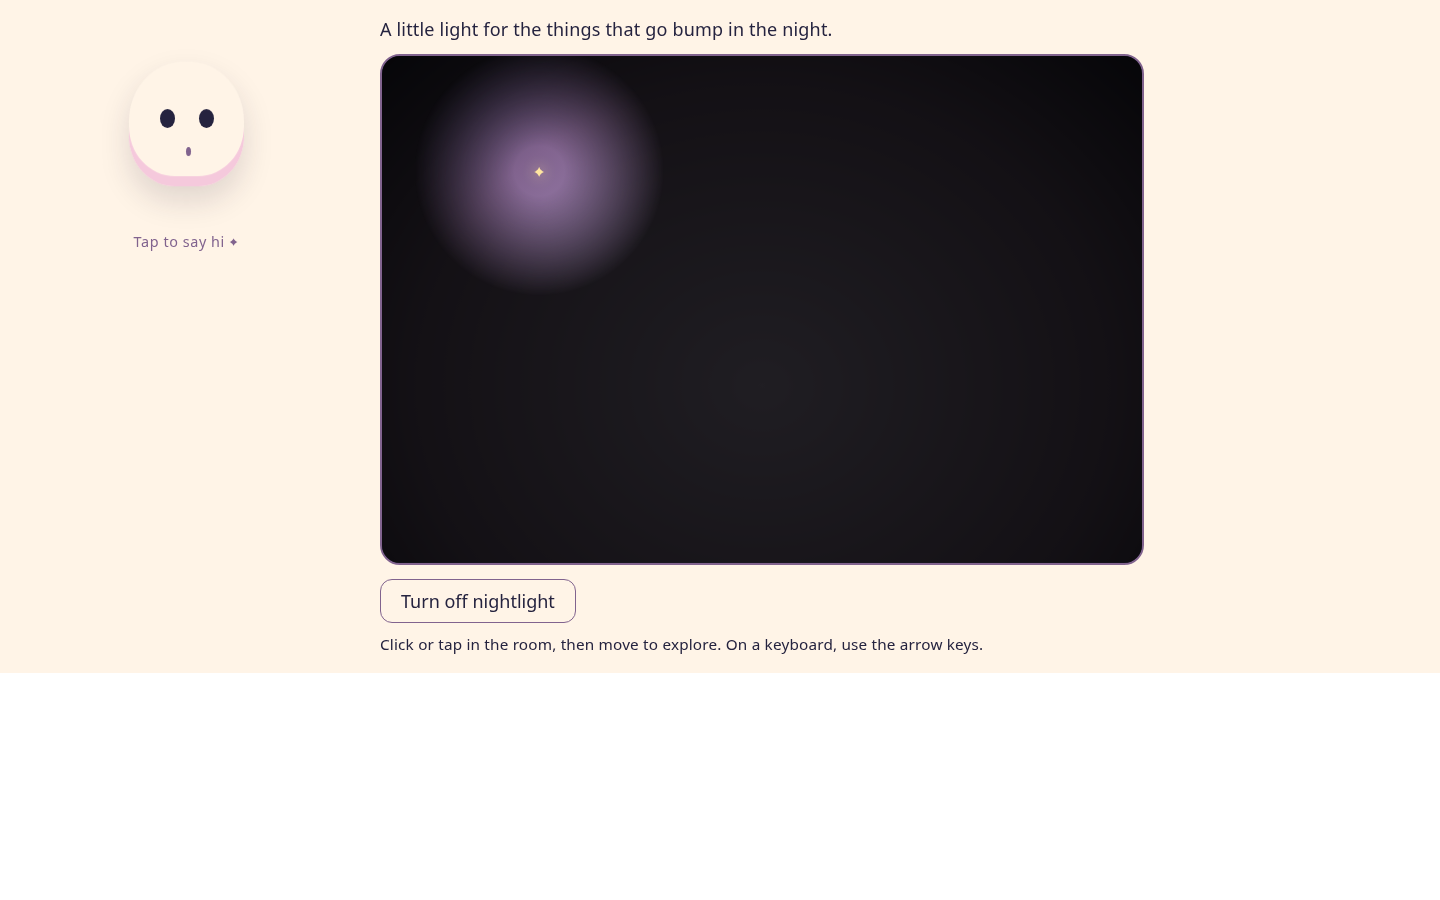
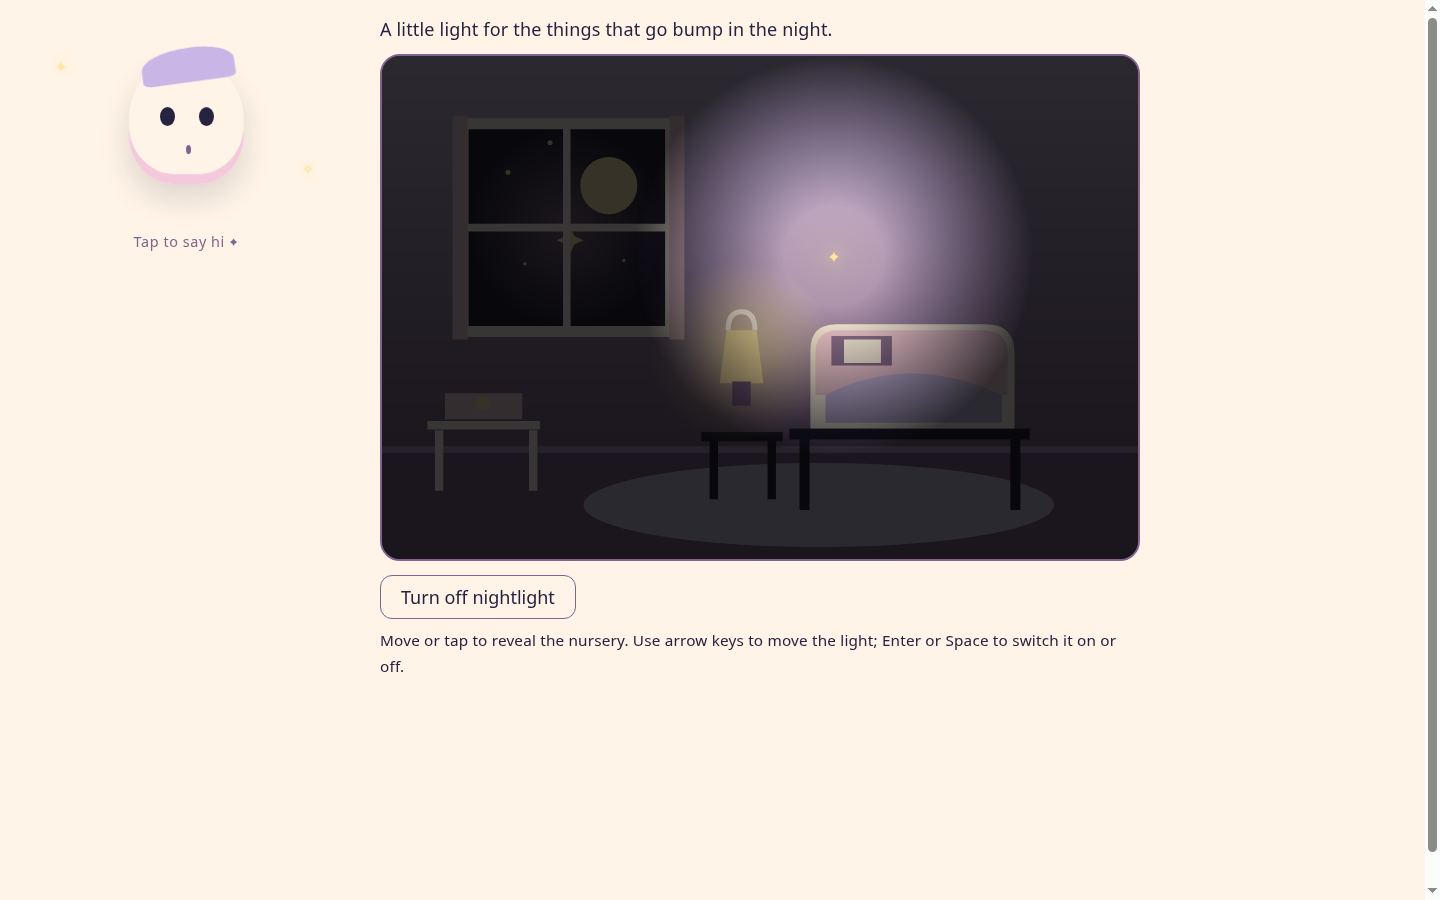
feat: refine Stage 1 interactions and add nursery fallback

diff --git a/src/components/interactive/NightlightLab.tsx b/src/components/interactive/NightlightLab.tsx
@@ -1,4 +1,4 @@
-import { useRef, useState, type CSSProperties, type KeyboardEvent, type PointerEvent } from 'react'
+import { useEffect, useId, useRef, useState, type KeyboardEvent, type PointerEvent } from 'react'
 import './NightlightLab.css'
 
 export interface NightlightLabProps {
@@ -8,17 +8,28 @@ export interface NightlightLabProps {
 
 export function NightlightLab({ muted, onPlaySound }: NightlightLabProps) {
   const scene = useRef<HTMLDivElement>(null)
+  const point = useRef({ x: 50, y: 50 })
+  const frame = useRef(0)
+  const hintId = useId()
   const [lit, setLit] = useState(false)
-  const [point, setPoint] = useState({ x: 50, y: 50 })
+
+  useEffect(() => () => cancelAnimationFrame(frame.current), [])
+
+  function updateLight(x: number, y: number) {
+    point.current = { x: Math.max(0, Math.min(100, x)), y: Math.max(0, Math.min(100, y)) }
+    if (frame.current) return
+    frame.current = requestAnimationFrame(() => {
+      scene.current?.style.setProperty('--light-x', `${point.current.x}%`)
+      scene.current?.style.setProperty('--light-y', `${point.current.y}%`)
+      frame.current = 0
+    })
+  }
 
   function move(event: PointerEvent<HTMLDivElement>) {
     if (!scene.current) return
     const rect = scene.current.getBoundingClientRect()
-    setPoint({
-      x: Math.max(0, Math.min(100, (event.clientX - rect.left) / rect.width * 100)),
-      y: Math.max(0, Math.min(100, (event.clientY - rect.top) / rect.height * 100)),
-    })
-    if (event.pointerType !== 'mouse') setLit(true)
+    updateLight((event.clientX - rect.left) / rect.width * 100, (event.clientY - rect.top) / rect.height * 100)
+    setLit(true)
   }
 
   function toggle() {
@@ -34,7 +45,7 @@ export function NightlightLab({ muted, onPlaySound }: NightlightLabProps) {
     if (event.key in delta) {
       event.preventDefault()
       const [dx, dy] = delta[event.key]
-      setPoint(({ x, y }) => ({ x: Math.max(0, Math.min(100, x + dx)), y: Math.max(0, Math.min(100, y + dy)) }))
+      updateLight(point.current.x + dx, point.current.y + dy)
       setLit(true)
     } else if (event.key === ' ' || event.key === 'Enter') {
       event.preventDefault()
@@ -50,12 +61,15 @@ export function NightlightLab({ muted, onPlaySound }: NightlightLabProps) {
         className={`nightlight-lab__scene${lit ? ' nightlight-lab__scene--lit' : ''}`}
         role="button"
         tabIndex={0}
-        aria-label="Explore the nursery with your nightlight. Use arrow keys to move the light, Enter or Space to switch it on or off."
+        aria-label="Explore the nursery with your nightlight"
+        aria-describedby={hintId}
         aria-pressed={lit}
         onPointerMove={move}
-        onPointerDown={event => { move(event); if (event.pointerType === 'mouse') setLit(true) }}
+        onPointerDown={event => {
+          if (event.pointerType === 'touch') event.currentTarget.setPointerCapture(event.pointerId)
+          move(event)
+        }}
         onKeyDown={keyDown}
-        style={{ '--light-x': `${point.x}%`, '--light-y': `${point.y}%` } as CSSProperties}
       >
         <div className="nightlight-lab__room" aria-hidden="true" />
         <div className="nightlight-lab__beam" aria-hidden="true" />
@@ -64,7 +78,7 @@ export function NightlightLab({ muted, onPlaySound }: NightlightLabProps) {
       <button className="nightlight-lab__switch" type="button" aria-pressed={lit} onClick={toggle}>
         {lit ? 'Turn off nightlight' : 'Turn on nightlight'}
       </button>
-      <p className="nightlight-lab__hint">Click or tap in the room, then move to explore. On a keyboard, use the arrow keys.</p>
+      <p className="nightlight-lab__hint" id={hintId}>Move or tap to reveal the nursery. Use arrow keys to move the light; Enter or Space to switch it on or off.</p>
     </section>
   )
 }

diff --git a/src/components/interactive/PipCharacter.tsx b/src/components/interactive/PipCharacter.tsx
@@ -24,13 +24,19 @@ export function PipCharacter({ mood, interactive = true }: PipCharacterProps) {
   function tilt(event: PointerEvent<HTMLElement>) {
     if (!interactive || !figure.current) return
     const bounds = event.currentTarget.getBoundingClientRect()
-    figure.current.style.setProperty('--pip-tilt-x', `${((event.clientY - bounds.top) / bounds.height - 0.5) * -12}deg`)
-    figure.current.style.setProperty('--pip-tilt-y', `${((event.clientX - bounds.left) / bounds.width - 0.5) * 12}deg`)
+    const x = Math.max(-1, Math.min(1, (event.clientX - bounds.left) / bounds.width * 2 - 1))
+    const y = Math.max(-1, Math.min(1, (event.clientY - bounds.top) / bounds.height * 2 - 1))
+    figure.current.style.setProperty('--pip-tilt-x', `${-y * 5}deg`)
+    figure.current.style.setProperty('--pip-tilt-y', `${x * 5}deg`)
+    figure.current.style.setProperty('--pip-offset-x', `${x * 7}px`)
+    figure.current.style.setProperty('--pip-offset-y', `${y * 7}px`)
   }
 
   function resetTilt() {
     figure.current?.style.setProperty('--pip-tilt-x', '0deg')
     figure.current?.style.setProperty('--pip-tilt-y', '0deg')
+    figure.current?.style.setProperty('--pip-offset-x', '0px')
+    figure.current?.style.setProperty('--pip-offset-y', '0px')
   }
 
   const Element = interactive ? 'button' : 'div'
@@ -41,10 +47,15 @@ export function PipCharacter({ mood, interactive = true }: PipCharacterProps) {
       onPointerMove={tilt}
       onPointerLeave={resetTilt}
       onPointerUp={resetTilt}
+      onPointerCancel={resetTilt}
     >
-      <span ref={figure} className="pip-character__figure" style={{ '--pip-tilt-x': '0deg', '--pip-tilt-y': '0deg' } as CSSProperties}>
-        <span className="pip-character__placeholder" aria-hidden="true"><span className="pip-character__eyes" /></span>
-        {imageReady && <img src="/assets/character/pip-hero.webp" alt="" draggable={false} onError={() => setImageReady(false)} />}
+      <span ref={figure} className="pip-character__figure" style={{ '--pip-tilt-x': '0deg', '--pip-tilt-y': '0deg', '--pip-offset-x': '0px', '--pip-offset-y': '0px' } as CSSProperties}>
+        <span className="pip-character__art">
+          {!imageReady && <span className="pip-character__placeholder" aria-hidden="true"><span className="pip-character__eyes" /></span>}
+          {imageReady && <img src="/assets/character/pip-hero.webp" alt="" draggable={false} onError={() => setImageReady(false)} />}
+        </span>
+        <span className="pip-character__spark pip-character__spark--one" aria-hidden="true">✦</span>
+        <span className="pip-character__spark pip-character__spark--two" aria-hidden="true">✧</span>
       </span>
       {interactive && <span className="pip-character__hint" aria-hidden="true">Tap to say hi ✦</span>}
     </Element>

diff --git a/src/components/interactive/PipCharacter.css b/src/components/interactive/PipCharacter.css
@@ -27,6 +27,14 @@
   transition: transform 180ms ease;
 }
 
+.pip-character__art {
+  display: grid;
+  place-items: center;
+  width: 100%;
+  min-height: 190px;
+  animation: pip-breathe 3.8s ease-in-out infinite;
+}
+
 .pip-character__figure img {
   position: relative;
   display: block;
@@ -37,12 +45,24 @@
 }
 
 .pip-character__placeholder {
-  position: absolute;
+  position: relative;
   width: 115px;
   height: 125px;
   border-radius: 48% 48% 40% 40%;
   background: var(--pip-cream, #FFF4E7);
   box-shadow: inset 0 -10px 0 var(--pip-blush, #F5C9DC), 0 14px 30px rgba(37, 35, 63, .15);
+}
+
+.pip-character__placeholder::before {
+  content: '';
+  position: absolute;
+  top: -12px;
+  left: 12px;
+  width: 94px;
+  height: 35px;
+  border-radius: 70% 60% 15% 15%;
+  background: var(--pip-lavender, #C9B6E7);
+  transform: rotate(-8deg);
 }
 
 .pip-character__eyes {
@@ -57,8 +77,21 @@
 }
 
 .pip-character__hint { font-size: .8rem; letter-spacing: .04em; }
+.pip-character__spark {
+  position: absolute;
+  color: var(--pip-starlight, #FFE5A0);
+  pointer-events: none;
+  text-shadow: 0 0 12px var(--pip-starlight, #FFE5A0);
+  transition: transform 180ms ease;
+}
+.pip-character__spark--one { top: 16%; left: 8%; transform: translate(var(--pip-offset-x), var(--pip-offset-y)); }
+.pip-character__spark--two { right: 9%; bottom: 22%; transform: translate(calc(0px - var(--pip-offset-x)), calc(0px - var(--pip-offset-y))); }
 .pip-character--reacting .pip-character__figure { animation: pip-hello 650ms ease-out; }
 .pip-character--night .pip-character__figure img { filter: drop-shadow(0 0 22px rgba(255, 229, 160, .5)); }
+
+@keyframes pip-breathe {
+  50% { transform: translateY(-4px); }
+}
 
 @keyframes pip-hello {
   45% { transform: perspective(600px) rotate(-7deg) translateY(-9px); }
@@ -67,4 +100,6 @@
 @media (prefers-reduced-motion: reduce) {
   .pip-character__figure { transition: none; transform: none; }
   .pip-character--reacting .pip-character__figure { animation: none; }
+  .pip-character__art { animation: none; }
+  .pip-character__spark { transition: none; transform: none; }
 }

diff --git a/src/components/interactive/NightlightLab.css b/src/components/interactive/NightlightLab.css
@@ -1,6 +1,7 @@
 .nightlight-lab {
   width: 100%;
   max-width: 760px;
+  min-width: 0;
   color: var(--pip-midnight, #25233F);
   font: inherit;
 }
@@ -8,6 +9,7 @@
 .nightlight-lab__intro { margin: 0 0 12px; }
 .nightlight-lab__scene {
   position: relative;
+  box-sizing: border-box;
   overflow: hidden;
   width: 100%;
   aspect-ratio: 3 / 2;
@@ -17,6 +19,8 @@
   background: var(--pip-midnight, #25233F);
   cursor: crosshair;
   touch-action: none;
+  --light-x: 50%;
+  --light-y: 50%;
 }
 
 .nightlight-lab__scene:focus-visible, .nightlight-lab__switch:focus-visible {
@@ -27,17 +31,23 @@
 .nightlight-lab__room, .nightlight-lab__beam {
   position: absolute;
   inset: 0;
-  background-image: url('/assets/projects/nightlight-room.webp'), radial-gradient(ellipse at 50% 65%, #C9B6E7, #81638E 65%, #25233F);
+  background-image: url('/assets/projects/nightlight-room.webp'), url('./nightlight-fallback.svg');
   background-size: cover, cover;
   background-position: center, center;
 }
 
-.nightlight-lab__room { filter: brightness(.16) saturate(.65); }
+.nightlight-lab__room { filter: brightness(.22) saturate(.7); }
 .nightlight-lab__beam {
   opacity: 0;
-  mask-image: radial-gradient(circle 125px at var(--light-x) var(--light-y), #000 20%, transparent 100%);
-  -webkit-mask-image: radial-gradient(circle 125px at var(--light-x) var(--light-y), #000 20%, transparent 100%);
+  mask-image: radial-gradient(circle clamp(125px, 22vw, 200px) at var(--light-x) var(--light-y), #000 25%, transparent 100%);
+  -webkit-mask-image: radial-gradient(circle clamp(125px, 22vw, 200px) at var(--light-x) var(--light-y), #000 25%, transparent 100%);
   transition: opacity 220ms ease;
+}
+.nightlight-lab__beam::after {
+  content: '';
+  position: absolute;
+  inset: 0;
+  background: radial-gradient(circle at var(--light-x) var(--light-y), rgba(255, 229, 160, .26), transparent 32%);
 }
 .nightlight-lab__scene--lit .nightlight-lab__beam { opacity: 1; }
 
